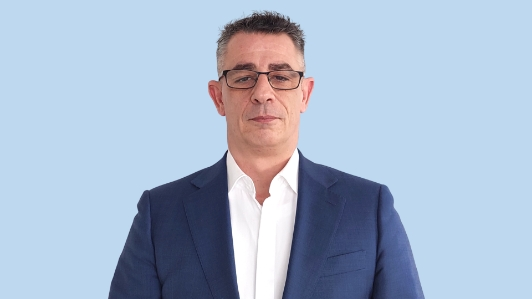
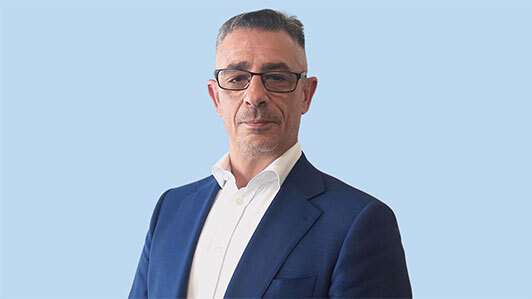
How we help changes

Changed region(s): [[0.1805, 0.0301, 0.812, 1.0]]

diff --git a/resources/views/front/pages/how-we-help/international-supply-and-unlicensed-imports/project-management.blade.php b/resources/views/front/pages/how-we-help/international-supply-and-unlicensed-imports/project-management.blade.php
@@ -82,34 +82,36 @@
         <p class="font-bold">Global Sales Director – S. America</p>
       </div>
       <div class="4xl:text-2xl text-xl">
-        <img class="mb-3" src="{{ asset('image/Ross_team.jpg') }}">
-        <p class="text-lochmara font-bold mb-1.5">Ross Hemson</p>
-        <p class="font-bold">Associate Account Director – Low & Middle Income Countries</p>
+        <img class="mb-3" src="{{asset('image/Kaushik_Patel.jpeg')}}">
+        <p class="text-lochmara font-bold mb-1.5">Kaushik Patel</p>
+        <p class="font-bold">Chief Commercial Officer</p>
+      </div>
+      <div class="4xl:text-2xl text-xl">
+        <img class="mb-3" src="{{ asset('image/Arun_Dholariya.jpeg') }}">
+        <p class="text-lochmara font-bold mb-1.5">Arun Dholariya</p>
+        <p class="font-bold">Group Manager – EU/UK Supply Chain</p>
       </div>
       <div class="4xl:text-2xl text-xl">
         <img class="mb-3" src="{{ asset('image/Amish-team.jpg') }}">
         <p class="text-lochmara font-bold mb-1.5">Amish Patel</p>
         <p class="font-bold">Associate Account Director – EU/UK Supply Chain</p>
       </div>
-      <div class="4xl:text-2xl text-xl">
-        <img class="mb-3" src="{{ asset('image/SmartBot.jpg') }}">
-        <p class="text-lochmara font-bold mb-1.5">Arun Dholariya</p>
-        <p class="font-bold">Group Manager – EU/UK Supply Chain</p>
-      </div>
+
       <div class="4xl:text-2xl text-xl">
         <img class="mb-3" src="{{asset('image/Judith-team.jpg')}}">
         <p class="text-lochmara font-bold mb-1.5">Judith Asiimwe</p>
         <p class="font-bold">Senior Account Manager – N. America, Asia, Australasia</p>
       </div>
+
+      <div class="4xl:text-2xl text-xl">
+        <img class="mb-3" src="{{ asset('image/Ross_team.jpg') }}">
+        <p class="text-lochmara font-bold mb-1.5">Ross Hemson</p>
+        <p class="font-bold">Associate Account Director – Low & Middle Income Countries</p>
+      </div>
       <div class="4xl:text-2xl text-xl">
         <img class="mb-3" src="{{asset('image/Jigar-team.jpg')}}">
         <p class="text-lochmara font-bold mb-1.5">Jigar Sharma</p>
         <p class="font-bold">Senior Account Manager – EU/UK Supply Chain</p>
-      </div>
-      <div class="4xl:text-2xl text-xl">
-        <img class="mb-3" src="{{asset('image/Amy_team.jpg')}}">
-        <p class="text-lochmara font-bold mb-1.5">Amy Searle</p>
-        <p class="font-bold">Regulatory Lead, Responsible Person</p>
       </div>
     </div>
     <div class="text-center lg:my-40 mt-16 mb-20">

diff --git a/resources/views/front/pages/how-we-help/hospital-and-pharmacy-supply/project-management.blade.php b/resources/views/front/pages/how-we-help/hospital-and-pharmacy-supply/project-management.blade.php
@@ -82,9 +82,9 @@
         <p class="font-bold">Global Sales Director – Hospital Supply</p>
       </div>
       <div class="4xl:text-2xl text-xl">
-        <img class="mb-3" src="{{ asset('image/Giles-team.jpg') }}">
-        <p class="text-lochmara font-bold mb-1.5">Giles Holford</p>
-        <p class="font-bold">Head of Sexual Health Supply</p>
+        <img class="mb-3" src="{{ asset('image/Kaushik_Patel.jpeg') }}">
+        <p class="text-lochmara font-bold mb-1.5">Kaushik Patel</p>
+        <p class="font-bold">Chief Commercial Officer</p>
       </div>
       <div class="4xl:text-2xl text-xl">
         <img class="mb-3" src="{{ asset('image/Ross_team.jpg') }}">
@@ -97,9 +97,9 @@
         <p class="font-bold">Senior Manager – UK Specialist Supply Chain (Retail Pharmacy)</p>
       </div>
       <div class="4xl:text-2xl text-xl">
-        <img class="mb-3" src="{{ asset('image/Amy_team.jpg') }}">
-        <p class="text-lochmara font-bold mb-1.5">Amy Searle</p>
-        <p class="font-bold">Regulatory Lead, Responsible Person</p>
+        <img class="mb-3" src="{{ asset('image/Giles-team.jpg') }}">
+        <p class="text-lochmara font-bold mb-1.5">Giles Holford</p>
+        <p class="font-bold">Head of Sexual Health Supply</p>
       </div>
     </div>
     <div class="text-center lg:my-40 mt-16 mb-20">

diff --git a/resources/views/front/pages/how-we-help/eap/program-strategy-and-design.blade.php b/resources/views/front/pages/how-we-help/eap/program-strategy-and-design.blade.php
@@ -142,11 +142,11 @@
         <p class="text-lochmara leading-37px font-bold mb-1">Maysa Gamal</p>
         <p class="font-bold">Regional Sales Manager – MENA region</p>
       </div>
-      <div class="4xl:text-2xl text-xl">
+      {{--<div class="4xl:text-2xl text-xl">
         <img class="lg:mb-3 mb-2" src="{{ asset('image/Amy-team.jpg') }}">
         <p class="text-lochmara leading-37px font-bold mb-1">Amy Searle</p>
         <p class="font-bold">Project Manager</p>
-      </div>
+      </div>--}}
     </div>
     <div class="text-center lg:my-40 mt-16 mb-20">
       <a href="{{ route('connect-with-us') }}" class="button 4xl:text-28px lg:text-xl text-2xl font-semibold bg-persian-green text-white rounded-full 4xl:py-5 py-3 4xl:px-16 px-10 block sm:inline-block">Talk to the team</a>

diff --git a/resources/views/front/pages/how-we-help/distribution/end-to-end-service.blade.php b/resources/views/front/pages/how-we-help/distribution/end-to-end-service.blade.php
@@ -116,11 +116,11 @@
         <p class="text-lochmara font-bold mb-1.5">Nicole Lyons</p>
         <p class="font-bold">Regulatory Director</p>
       </div>
-      <div class="4xl:text-2xl text-xl">
+      {{--<div class="4xl:text-2xl text-xl">
         <img class="mb-3" src="{{ asset('image/Amy-team.jpg') }}">
         <p class="text-lochmara font-bold mb-1.5">Amy Searle</p>
         <p class="font-bold">Project Manager</p>
-      </div>
+      </div>--}}
       <div class="4xl:text-2xl text-xl">
         <img class="mb-3" src="{{ asset('image/Maysa-team.jpg') }}">
         <p class="text-lochmara font-bold mb-1.5">Maysa Gamal</p>

diff --git a/resources/views/front/pages/how-we-help/cts/project-management.blade.php b/resources/views/front/pages/how-we-help/cts/project-management.blade.php
@@ -106,9 +106,9 @@
         <p class="font-bold">Business Development Manager</p>
       </div>
       <div class="4xl:text-2xl text-xl">
-        <img class="lg:mb-3 mb-2" src="{{ asset('image/Andrew-team.jpg') }}">
-        <p class="text-lochmara leading-37px font-bold mb-1">Andrew Tunstell</p>
-        <p class="font-bold">Regulatory Assistant</p>
+        <img class="lg:mb-3 mb-2" src="{{ asset('image/Miral-team.jpg') }}">
+        <p class="text-lochmara leading-37px font-bold mb-1">Miral Patel</p>
+        <p class="font-bold">Regulatory Lead</p>
       </div>
     </div>
     <div class="text-center lg:my-40 mt-16 mb-20">
